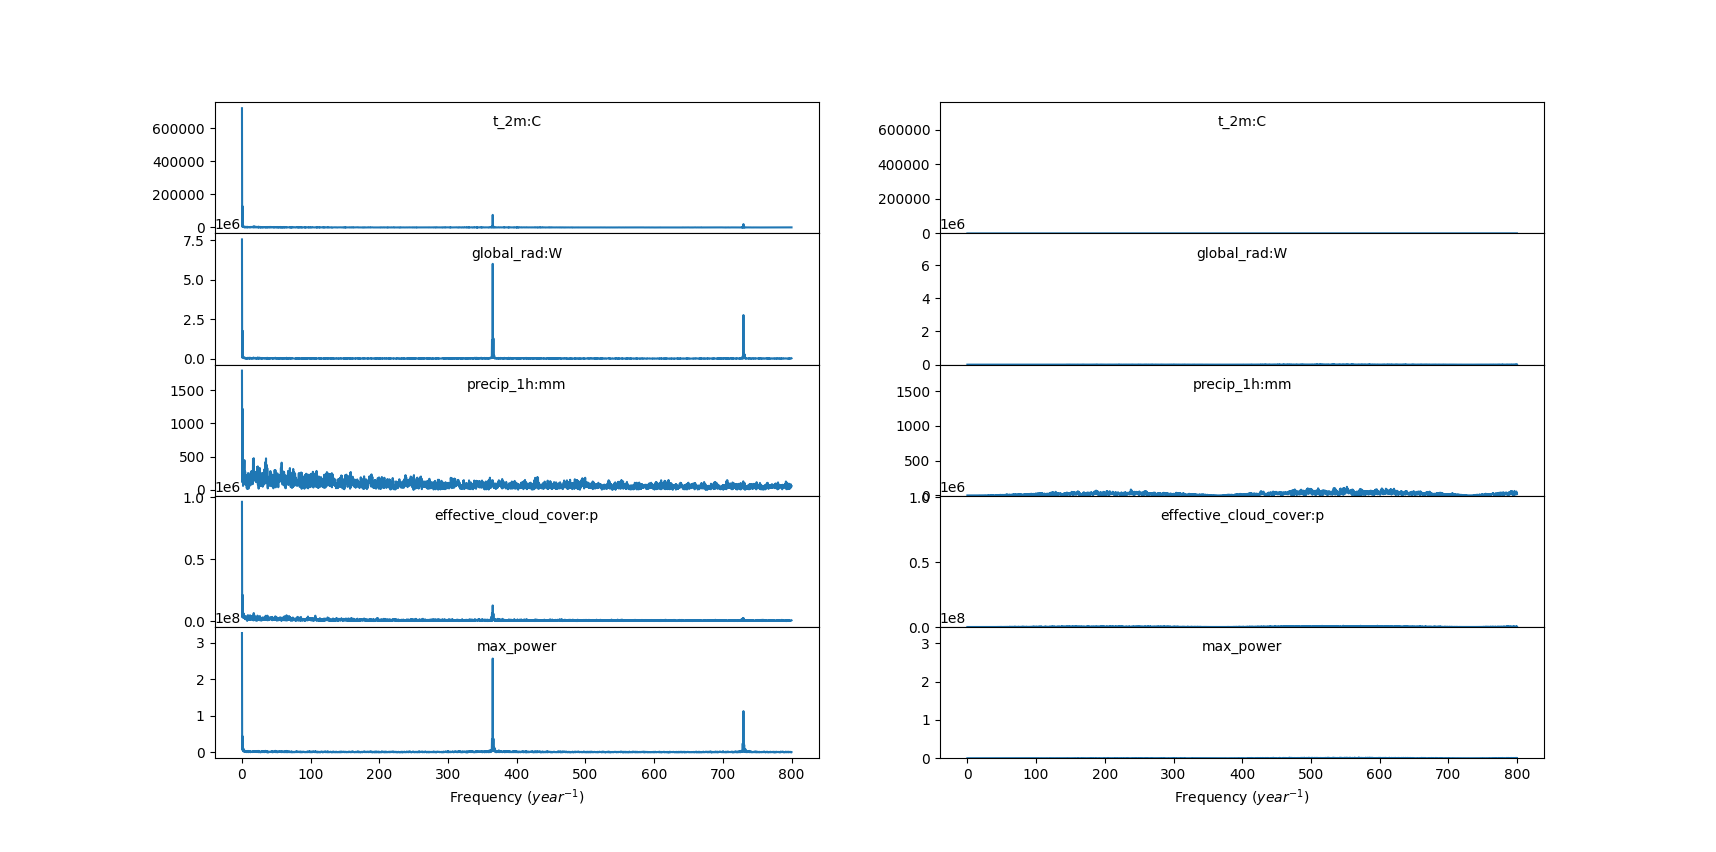
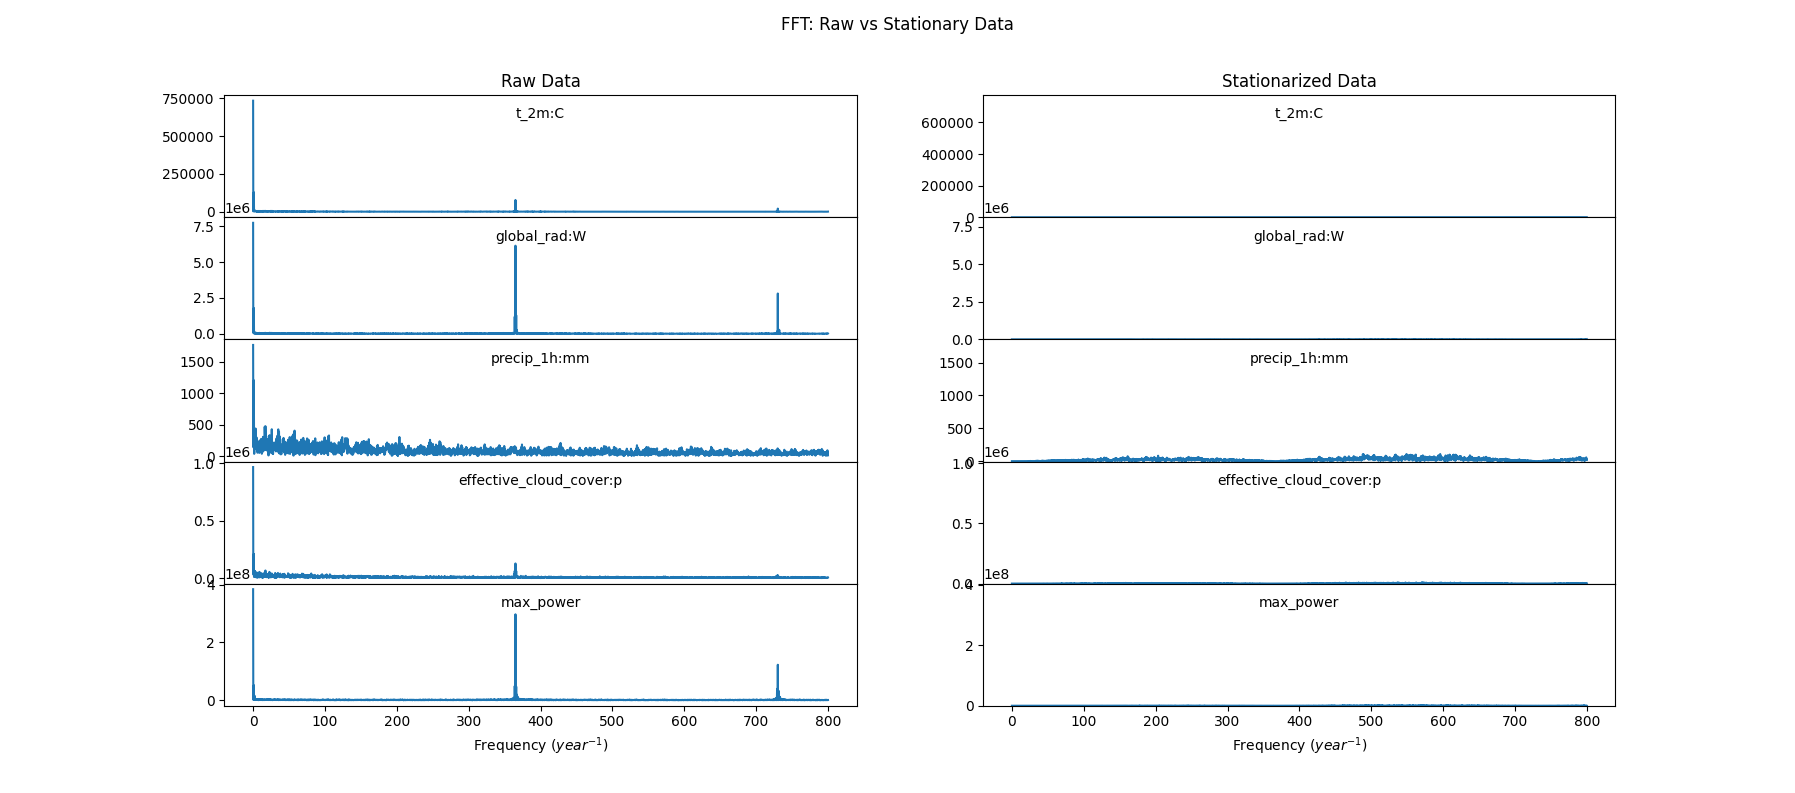
added gym dataset and order 2 models

diff --git a/models/VAR.py b/models/VAR.py
@@ -1,92 +1,140 @@
 import logging
+from abc import ABC
 
 import pandas as pd
 import numpy as np
-from sklearn.metrics import mean_squared_error, mean_absolute_error
-from sklearn.preprocessing import StandardScaler
-from statsmodels.tsa.statespace.varmax import VARMAX
+from sklearn.metrics import mean_squared_error, mean_absolute_error, r2_score
+from statsmodels.tsa.statespace.varmax import VARMAX, VARMAXResults
 import matplotlib.pyplot as plt
 from matplotlib.dates import DateFormatter
 
 import greenium.utils.data
 
 
-class VARModel():
+class VARModel(VARMAX):
 
     def __init__(self,
                  dataclass: greenium.utils.data.Data,
-                 order: tuple = (1, 0)):
+                 order: tuple = (1, 0),
+                 train_percent: float = 0.7,
+                 load: str = None):
 
         self.dataclass = dataclass
         self.scaler = dataclass.scaler or None
         self.dataset = dataclass.df
         self.logger = dataclass.logger
-
+        self.load = load
+        self.train_set, self.test_set = self.split(train_percent)
         # model parameters
         self.order = order
+
+        super(VARModel, self).__init__(
+            self.train_set,
+            order=self.order)
 
     def split(self, train_percent):
 
         stop_idx = np.floor(train_percent * len(self.dataset)).astype(int)
-        self.train_set = self.dataset.iloc[:stop_idx]
-        self.test_set = self.dataset.iloc[stop_idx:]
+        train_set = self.dataset.iloc[:stop_idx]
+        test_set = self.dataset.iloc[stop_idx:]
         # self.train_set = self.train_set.set_index('validdate').asfreq('D')
         # self.test_set = self.test_set.set_index('validdate').asfreq('D')
 
         self.logger.info(f'Test and train set successfully created.')
 
-        return self.train_set, self.test_set
+        return train_set, test_set
 
-    def train(self, train_percent: float):
+    def fit(self, **kwargs) -> object:
 
-        self.split(train_percent)
+        if self.load:
+            self.model_result = VARMAXResults.load(self.load)
+            self.logger.info(f'model loaded from {self.load}')
+            return self.model_result
 
-        model = VARMAX(self.train_set, order=self.order, trend='c')
-        self.model_result = model.fit(maxiter=1000, disp=False)
+        self.model_result = super(VARModel, self).fit(maxiter=1000, disp=False)
         self.logger.info('Trained and fit')
         print(self.model_result.summary())
 
         return self.model_result
 
-    def summary(self):
-        num_hours = 24
+    def predict(self,
+                start: str, end: str,
+                plot: bool = True,
+                save: str = None):
 
-        print(self.model_result.summary())
-        self.model_result.plot_diagnostics()
-        plt.show()
+        """
+        Predictions for in-sample dates.
 
-        pred = self.model_result.forecast(num_hours)
-        real = self.test_set.iloc[:num_hours]
+        :rtype: object
+        """
+        start = pd.to_datetime(start)
+        end = pd.to_datetime(end)
+        num_hours = (end - start).astype('timedelta64[h]') / np.timedelta64(1, 'h')
+
+        pred = self.model_result.predict(start=start, end=end)
+        real = self.train_set.loc[start:end]
         pred = pred.set_index(real.index)
         pred = self.dataclass.inverse_transform(pred)
         real = self.dataclass.inverse_transform(real)
 
-        fig, axs = plt.subplots(len(real.columns), 1)
-        myFmt = DateFormatter("%H:%M")
-        for i, col in enumerate(real.columns):
-            rmse = mean_squared_error(real[col].iloc[:num_hours], pred[col].iloc[:num_hours], squared=False)
-            mae = mean_absolute_error(real[col].iloc[:num_hours], pred[col].iloc[:num_hours])
-            self.logger.info(f'RMSE {col}: {rmse}')
-            axs[i].plot(real.index[:num_hours], real[col].iloc[:num_hours], label='Real' if i==0 else '_nolegend_', c='b')
-            axs[i].plot(real.index[:num_hours], pred[col].iloc[:num_hours], label='Predicted' if i==0 else '_nolegend_', c='r')
-            axs[i].set_title(col)
-            axs[i].text(0, 0.95, f'RMSE: {rmse}\nMAE: {mae}',
-                        horizontalalignment='left',
-                        verticalalignment='top',
-                        fontsize=10,
-                        transform=axs[i].transAxes,
-                        bbox=dict(boxstyle='round', facecolor='wheat', alpha=0.5))
-            axs[i].xaxis.set_major_formatter(myFmt)
-        fig.legend()
-        fig.suptitle('Real v. Predicted values 24h')
-        plt.tight_layout()
-        plt.show()
+        if plot:
+            # Plot predictions
+            fig, axs = plt.subplots(len(real.columns), 1, figsize=(16, 10))
+            fig.subplots_adjust(hspace=0)
+            myFmt = DateFormatter("%H:%M")
+            label_dict = {'max_power_gym': ('Power Output Gym Dataset', 'Output (kW)'),
+                          'max_power_johnson': ('Power Output Johnson Dataset', 'Output (kW)'),
+                          'max_power': ('Power Output', 'Output (kW)'),
+                          't_2m:C': ('Temperature', 'Degrees Celsius'),
+                          'global_rad:W': ('Global Irradiance', 'Irradiance $(W/m^2)$'),
+                          'effective_cloud_cover:p': ('Effective Cloud Cover', 'Percent'),
+                          'precip_1h:mm': ('Precipitation', 'mm/hr')}
 
+            for i, col in enumerate(real.columns):
+                rmse = np.sqrt(self.model_result.mse)
+                r2 = r2_score(real[col].iloc[:num_hours], pred[col].iloc[:num_hours])
+                self.logger.info(f'RMSE {col}: {rmse}')
+                time = real.index[:num_hours]
+                real_vals = real[col].iloc[:num_hours]
+                pred_vals = pred[col].iloc[:num_hours]
+                if col == 'max_power':
+                    real_vals /= 1000
+                    pred_vals /= 1000
+                axs[i].plot(time, real_vals,
+                            label='Real' if i == 0 else '_nolegend_', c='b')
+                axs[i].plot(time, pred_vals,
+                            label='Predicted' if i == 0 else '_nolegend_', c='r')
+                axs[i].set_title(label_dict[col][0], y=1.0, pad=-14)
+                axs[i].set_ylabel(label_dict[col][1], fontsize=8)
+                axs[i].set_ylim(
+                    [None, np.amax([np.amax([real_vals, pred_vals]) * 1.4, np.amax([real_vals, pred_vals]) + 0.005])])
+                axs[i].text(0.1, 0.9, f'RMSE: {rmse:.3f}\n$R^2$: {r2:.3f}',
+                            horizontalalignment='left',
+                            verticalalignment='top',
+                            fontsize=8,
+                            transform=axs[i].transAxes,
+                            bbox=dict(boxstyle='round', facecolor='wheat', alpha=0.5))
+                axs[i].xaxis.set_major_formatter(myFmt)
+                if col != real.columns[-1]:
+                    axs[i].set_xticks([])
 
+            self.logger.info(f'AIC: {self.model_result.aic}')
+            axs[i].set_xlabel('Time (hr)')
+            fig.legend()
+            fig.suptitle('Real v. Predicted values 24h')
+            if save:
+                plt.savefig(f'scratch/figures/transparent/{save}', transparent=True)
+            plt.show()
+
+        return pred, real
+
+    def summary(self):
+
+        print(self.model_result.summary())
+        self.logger.info(f'AIC: {self.model_result.aic}')
+        self.logger.info(f'MSE: {self.model_result.mse}')
+
+    def save(self, filename: str, remove_data: bool = False):
+        self.model_result.save(f'models/saved_models/var_{filename}', remove_data=remove_data)
 
     # def forecast(self):
-
-
-        # for i in range(1, len(test_result)):
-        #     # print(test_y.iloc[i])
-        #     test_result.iloc[i] = test_result.iloc[i]+test_result.iloc[i-1]

diff --git a/main.py b/main.py
@@ -5,8 +5,25 @@ import os
 from datetime import date
 
 from utils.data import Data
+from utils.processing import perform_PCA
 from utils import utils
 from models.VAR import VARModel
+
+
+def show_fft(stationary: pd.DataFrame, raw_data: pd.DataFrame):
+    fig, axs = plt.subplots(nrows=len(raw_data.df.columns), ncols=2)
+    fig.subplots_adjust(hspace=0)
+    raw_data.FFT(axs=axs.T[0])
+    stationary.FFT(axs=axs.T[1])
+    axs[0][0].set_title('Raw Data')
+    axs[0][1].set_title('Stationarized Data')
+    fig.suptitle('FFT: Raw vs Stationary Data')
+    for x in range(len(axs)):
+        max_ylim = np.max([axs[x][0].get_ylim()[1], axs[x][1].get_ylim()[1]])
+        smaller = np.argmax([axs[x][0].get_ylim(), axs[x][1].get_ylim()])
+        axs[x][smaller].set_ylim(bottom=None, top=max_ylim)
+    plt.show()
+
 
 if __name__ == '__main__':
     LOGGER = utils.get_logger(
@@ -16,26 +33,52 @@ if __name__ == '__main__':
 
     # Get and normalize data
     raw_data = Data.get_data(datafile='data/4Y_Historical.csv',
-                             powerfile='data/gym_from_2010_04_06_to_2020_12_31.csv',
                              logger=LOGGER)
 
-    raw_data.df = raw_data.df.drop(columns=['diffuse_rad:W', 'direct_rad:W'])
-    stationary = raw_data.transform(lag=['hour', 'day'],
-                                    resample=False,
-                                    scaler=None)
+    # Get and normalize data
+    raw_data_gym = Data.get_data(datafile='data/4Y_Historical.csv',
+                                 powerfile='data/gym_from_2010_04_06_to_2020_12_31.csv',
+                                 logger=LOGGER)
 
-    # stationary.ts_plot(lags=24 * 7)
-    # fig, axs = plt.subplots(nrows=len(raw_data.df.columns), ncols=2)
-    # fig.subplots_adjust(hspace=0)
-    # raw_data.FFT(axs=axs.T[0])
-    # stationary.FFT(axs=axs.T[1])
-    # for x in range(len(axs)):
-    #     max_ylim = np.max([axs[x][0].get_ylim()[1], axs[x][1].get_ylim()[1]])
-    #     smaller = np.argmax([axs[x][0].get_ylim(), axs[x][1].get_ylim()])
-    #     axs[x][smaller].set_ylim(bottom=None, top=max_ylim)
-    # plt.show()
+    raw_data_johnson = Data.get_data(datafile='data/4Y_Historical.csv',
+                                     powerfile='data/maabarot_johnson_from_2010_04_22_to_2020_12_31.csv',
+                                     logger=LOGGER)
 
-    var = VARModel(stationary, order=(2, 0))
-    var.train(train_percent=0.7)
-    var.summary()
+    raw_data_johnson_gym = Data.get_data(datafile='data/4Y_Historical.csv',
+                                         powerfile='data/maabarot_johnson_from_2010_04_22_to_2020_12_31.csv',
+                                         logger=LOGGER)
+
+    gym_johnson = Data.get_data(datafile='data/4Y_Historical.csv',
+                                powerfile='data/maabarot_johnson_from_2010_04_22_to_2020_12_31.csv',
+                                logger=LOGGER)
+
+    raw_data_johnson_gym.df = pd.concat([raw_data_johnson.df, raw_data_gym.df['max_power']], axis=1, join='inner')
+    raw_data_johnson_gym.df.columns = np.concatenate((raw_data.df.columns, ['max_power_johnson', 'max_power_gym']))
+
+    gym_johnson.df = pd.concat([raw_data_gym.df['max_power'], raw_data_johnson.df['max_power']], axis=1, join='inner')
+    gym_johnson.df.columns = ['max_power_gym', 'max_power_johnson']
+
+    save_str = 'gym_10'
+    stationary = raw_data_gym.transform(lag=['hour', 'day'],
+                                        resample=False,
+                                        scaler=None)
+
+    if 'johnson_gym' in save_str:
+        stationary.df['max_power_gym'] = stationary.df['max_power_gym'].astype(np.float64)
+    else:
+        stationary.df['max_power'] = stationary.df['max_power'].astype(np.float64)
+
+    stationary.df = stationary.df.drop(columns=['diffuse_rad:W', 'direct_rad:W'])
+
+    # perform_PCA(stationary.df)
+
+    var = VARModel(stationary,
+                   order=(1, 0),
+                   # load=f'models/saved_models/var_{save_str}.pkl'
+                   )
+
+    var.fit()
+    var.predict(start='2017-01-03 00:00:00', end='2017-01-03 00:00:00')
+    # var.save(f'{save_str}.pkl', remove_data=False)
+    # var.summary(save=f'real_v_pred_{save_str}.png')
     # var.forecast()

diff --git a/utils/processing.py b/utils/processing.py
@@ -1,0 +1,22 @@
+import pandas as pd
+from sklearn.preprocessing import StandardScaler
+from sklearn.decomposition import PCA
+
+def perform_PCA(df: pd.DataFrame):
+    '''
+    Use scikit learn's pca analysis tools to reduce dimensionality of input
+    Jeff Zimmerman
+    '''
+
+    weighted_standard = StandardScaler().fit_transform(df)
+
+    pca = PCA(n_components='mle')
+    pca.fit(weighted_standard)
+    # decomposed = pca.transform(weighted_standard)
+
+    print(pca.explained_variance_ratio_)
+    print(pca.components_)
+
+    plt.plot(decomposed)
+    plt.show()
+    return

diff --git a/utils/utils.py b/utils/utils.py
@@ -42,5 +42,4 @@ def get_logger(
         s_format = logging.Formatter("%(levelname)s: %(name)s->%(funcName)s: %(message)s")
         s_handler.setFormatter(s_format)
         logger.addHandler(s_handler)
-
     return logger
